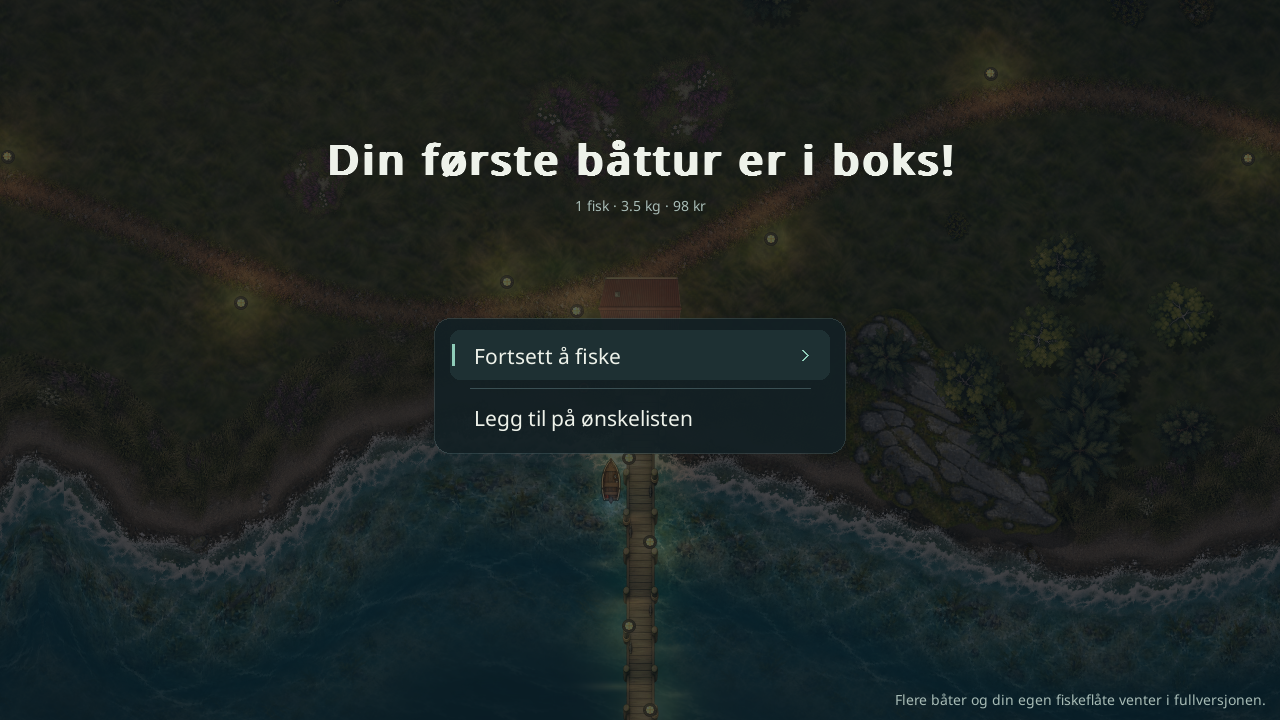
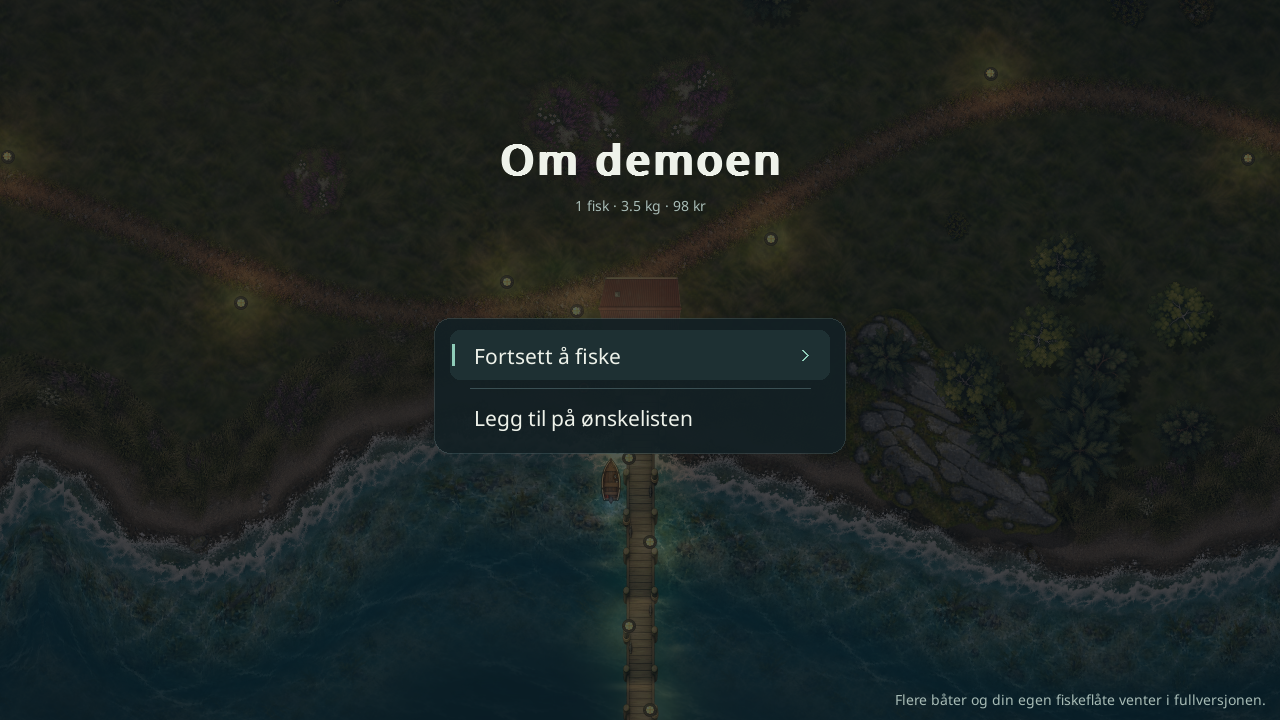
Show voluntary demo information without interrupting fishing

Changed region(s): [[0.25, 0.1833, 0.75, 0.2444]]

diff --git a/index.html b/index.html
@@ -14,7 +14,7 @@
 <header><div class="tag">Tiny Trawler</div><h1>Nytt hav, landskap og UI</h1><p>Oppdatert 8. oktober med illustrert lasteskjerm. Roligere hav og bakke, tydeligere natur og forbedrede menyer. Traileren viser nå hele kartet i avslutningszoomen. 51 sekunder · 720p · lyd.</p></header>
 <video controls playsinline preload="metadata" poster="poster.png?v=3"><source src="trailer.mp4?v=3" type="video/mp4">Nettleseren kan ikke spille av videoen. Last ned traileren nedenfor.</video>
 <nav><a href="trailer.mp4" download="TinyTrawler-trailer.mp4">Last ned traileren</a><a href="butikk.png" download>Last ned UI-bildet</a></nav>
-<h2>Første tur i den lokale testdemoen</h2><p>Etter første båtfangst og salg kan spilleren fortsette å fiske eller åpne Steam-ønskelisten. Demoen har egne lagringer. Den er under lokal testing og er ennå ikke publisert på Steam.</p><img src="demo-oppgjor.png" alt="Oppgjør etter første båttur i testdemoen med frivillig ønskelisteknapp" loading="lazy">
+<h2>Den lokale testdemoen</h2><p>Fiskingen fortsetter uten avbrudd etter første salg. «Om demoen» åpnes frivillig fra pausemenyen; ønskelistelenken finnes også i hovedmenyen. Demoen har egne lagringer. Den er under lokal testing og er ennå ikke publisert på Steam.</p><img src="demo-oppgjor.png?v=2" alt="Frivillig demo-meny med lenke til Steam og valg om videre fiske" loading="lazy">
 <h2>Hele kartet i traileren</h2><p>Avslutningszoomen er sentrert på hele øyriket, med plass til teksten og to sekunder med rolig oversikt.</p><img src="hele-kartet.png" alt="Hele Tiny Trawler-kartet synlig i den korrigerte traileren" loading="lazy">
 <h2>På vei til havna</h2><p>Den illustrerte lasteskjermen blir stående til landskapet er skarpt. Spilltiden står stille mens havna klargjøres.</p><img src="lasting.png" alt="Ny lasteskjerm med malt norsk kysthavn og tydelig statuskort" loading="lazy">
 <h2>Den nye butikken</h2><img src="butikk.png" alt="Den omarbeidede butikken i Tiny Trawler, med to kolonner og sjøgrønne markeringer" loading="lazy">
